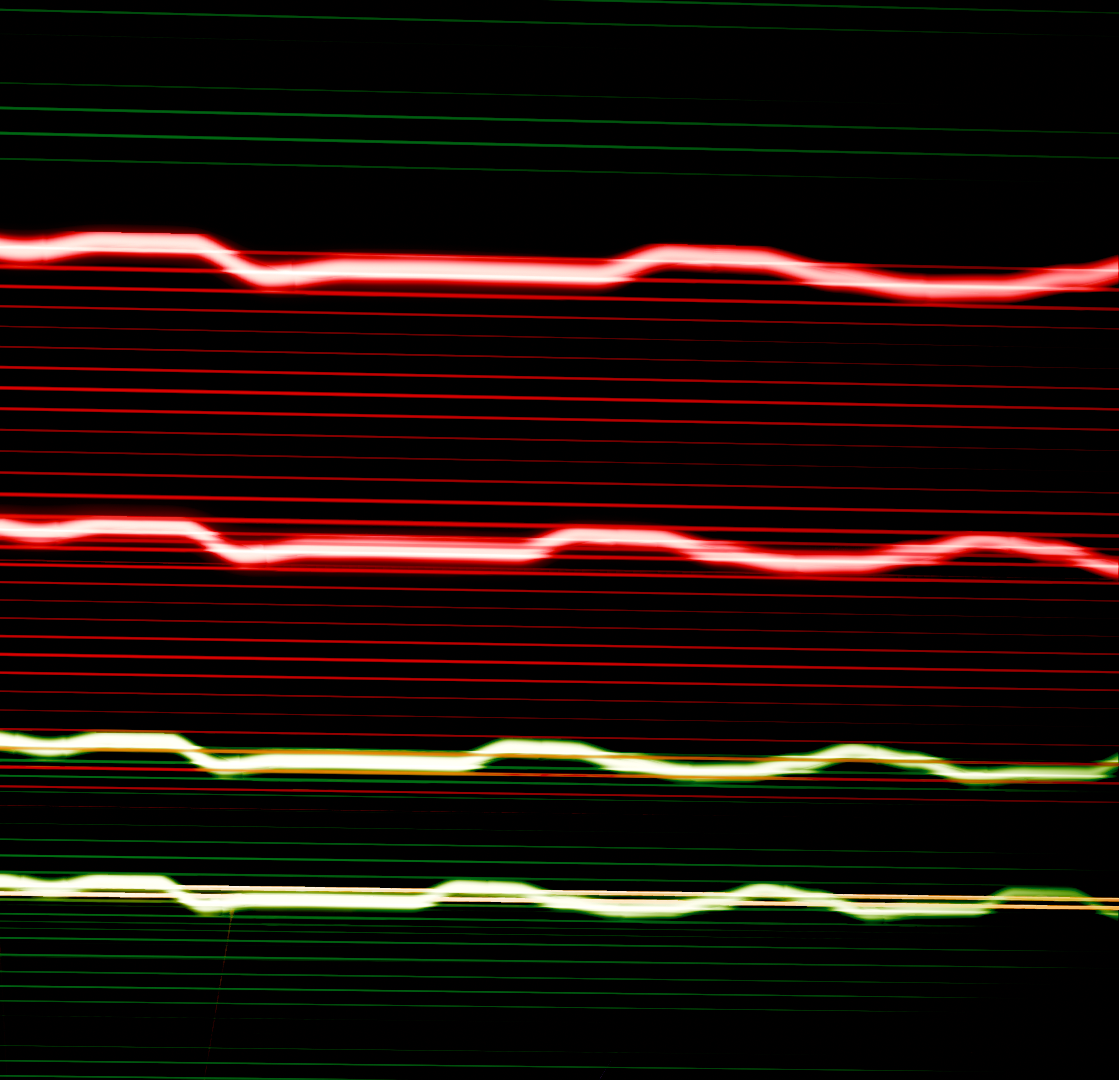
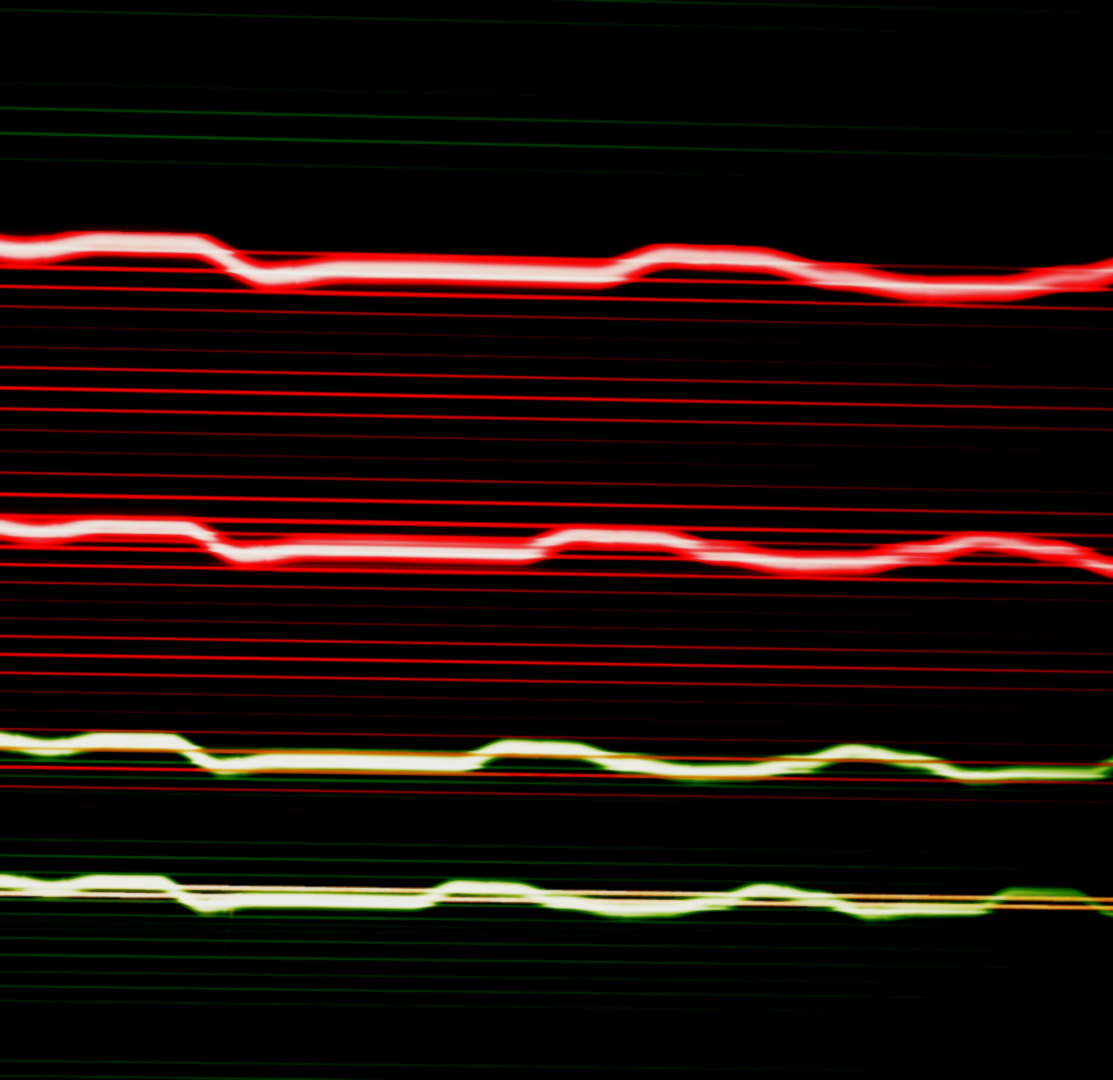
fix colours

diff --git a/SoundOfTheBeat/game.cpp b/SoundOfTheBeat/game.cpp
@@ -205,27 +205,27 @@ void mouse_button_callback(GLFWwindow* window, int button, int action, int mods)
 void setColor(unsigned int shader, char color) {
     switch (color) {
         case 'r': {
-            glUniform3f(glGetUniformLocation(shader, "material.ambient"), 0.0f, 0.0f, 0.0f);
-            glUniform3f(glGetUniformLocation(shader, "material.diffuse"), 0.45f, 0.f, 0.f);
+            glUniform3f(glGetUniformLocation(shader, "material.ambient"), 0.01f, 0.01f, 0.01f);
+            glUniform3f(glGetUniformLocation(shader, "material.diffuse"), 0.2f, 0.f, 0.f);
             glUniform3f(glGetUniformLocation(shader, "material.specular"), 0.7f, 0.6f, 0.6f);
             break;
         }
         case 'b': {
-            glUniform3f(glGetUniformLocation(shader, "material.ambient"), 0.0f, 0.1f, 0.06f);
-            glUniform3f(glGetUniformLocation(shader, "material.diffuse"), 0.05f, 0.f, 0.45f);
+            glUniform3f(glGetUniformLocation(shader, "material.ambient"), 0.01f, 0.01f, 0.01f);
+            glUniform3f(glGetUniformLocation(shader, "material.diffuse"), 0.14f, 0.34f, 0.0f);
             glUniform3f(glGetUniformLocation(shader, "material.specular"), 0.5f, 0.5f, 0.5f);
             break;
         }
         case 'g': {
             glUniform3f(glGetUniformLocation(shader, "material.ambient"), 0.0f, 0.0f, 0.0f);
-            glUniform3f(glGetUniformLocation(shader, "material.diffuse"), 0.22f, 0.25f, 0.25f);
+            glUniform3f(glGetUniformLocation(shader, "material.diffuse"), 0.1f, 0.1f, 0.1f);
             glUniform3f(glGetUniformLocation(shader, "material.specular"), 0.33f, 0.33f, 0.35f);
             break;
         }
         default: {
-            glUniform3f(glGetUniformLocation(shader, "material.ambient"), 0.2f, 0.2f, 0.2f);
-            glUniform3f(glGetUniformLocation(shader, "material.diffuse"), 0.65f, 0.65f, 0.65f);
-            glUniform3f(glGetUniformLocation(shader, "material.specular"), 0.7f, 0.7f, 0.7f);
+            glUniform3f(glGetUniformLocation(shader, "material.ambient"), 0.01f, 0.01f, 0.01f);
+            glUniform3f(glGetUniformLocation(shader, "material.diffuse"), 0.34f, 0.35f, 0.15f);
+            glUniform3f(glGetUniformLocation(shader, "material.specular"), 0.2f, 0.2f, 0.2f);
         }
     }
 }
@@ -245,7 +245,7 @@ void generateNewObjects() {
 
 void drawBalls(unsigned int shader, Model& object) {
     glUseProgram(shader);
-    setColor(shader, 'w');
+    setColor(shader, 'y');
 
     glUniform3f(glGetUniformLocation(shader, "uCameraAt"), cameraAt[0], cameraAt[1], cameraAt[2]);
     glUniformMatrix4fv(glGetUniformLocation(shader, "uPV"), 1, GL_FALSE, glm::value_ptr(projectionView));
@@ -367,7 +367,6 @@ int game(GLFWwindow* window, unsigned int shader, unsigned int texShader, unsign
 
         dim2, 0.0f, 0.0f,
         dim1, 0.0f, 0.0f,
-
     };
     unsigned int VAOaim, VBOaim;
     initVABO(aim, sizeof(aim), 3 * sizeof(float), &VAOaim, &VBOaim, true);
@@ -475,7 +474,7 @@ int game(GLFWwindow* window, unsigned int shader, unsigned int texShader, unsign
     std::string comboTx;
     std::string continueTx = "press [SPACE]";
 
-    glClearColor(0., 0., 0.05, 1.0);
+    glClearColor(0.0, 0.0, 0.0, 1.0);
     resumeSong(state->song);
 
     //render loop
@@ -538,13 +537,13 @@ int game(GLFWwindow* window, unsigned int shader, unsigned int texShader, unsign
         glBindVertexArray(VAOaim);
         glBindBuffer(GL_ARRAY_BUFFER, VBOaim);
 
-        glUniform3f(aimColLoc, 0.0, 0.2, 0.0);
-        glLineWidth(2);
+        glUniform3f(aimColLoc, 0., 0., 0.3);
+        glLineWidth(4);
         for (int i = 0; i < sizeof(aim)/3; i += 2)
             glDrawArrays(GL_LINES, i, 2);
 
-        glUniform3f(aimColLoc, 1.0, 1.0, 0.2);
-        glLineWidth(6);
+        glUniform3f(aimColLoc, 0.85, 0.9, 0.3);
+        glLineWidth(8);
         for (int i = 0; i < sizeof(aim) / 3; i += 2)
             glDrawArrays(GL_LINES, i, 2);
         
